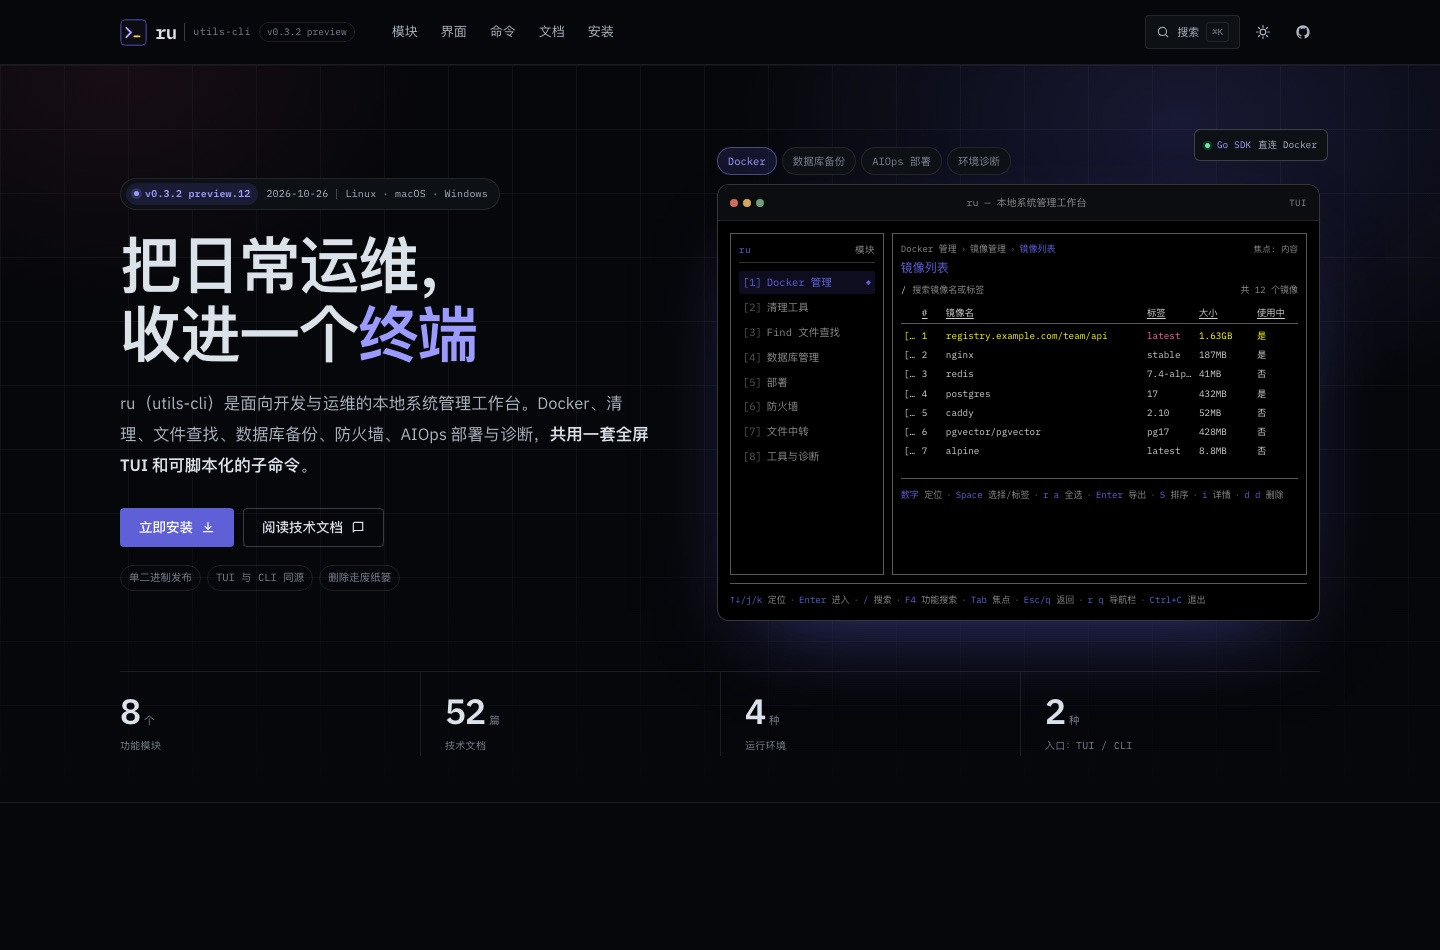
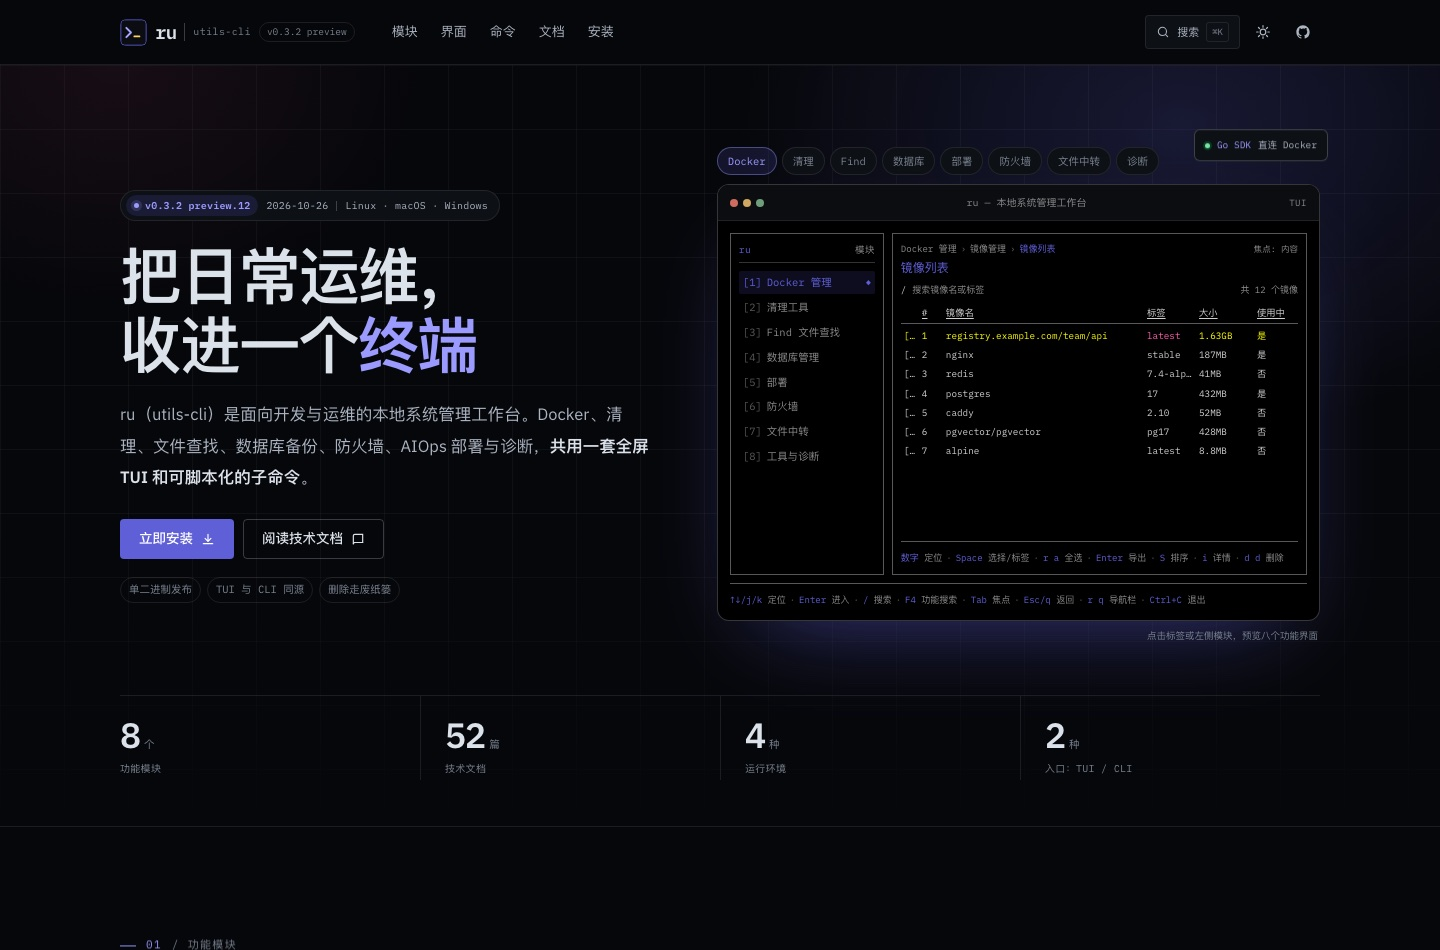
docs: expand TUI preview demos to all modules

diff --git a/index.html b/index.html
@@ -117,9 +117,13 @@
           <div class="hero-visual">
             <div class="tui-switch" role="tablist" aria-label="TUI 预览视图">
               <button type="button" role="tab" data-tui-view="docker" aria-selected="true">Docker</button>
-              <button type="button" role="tab" data-tui-view="backup" aria-selected="false">数据库备份</button>
-              <button type="button" role="tab" data-tui-view="deploy" aria-selected="false">AIOps 部署</button>
-              <button type="button" role="tab" data-tui-view="doctor" aria-selected="false">环境诊断</button>
+              <button type="button" role="tab" data-tui-view="clean" aria-selected="false">清理</button>
+              <button type="button" role="tab" data-tui-view="find" aria-selected="false">Find</button>
+              <button type="button" role="tab" data-tui-view="backup" aria-selected="false">数据库</button>
+              <button type="button" role="tab" data-tui-view="deploy" aria-selected="false">部署</button>
+              <button type="button" role="tab" data-tui-view="firewall" aria-selected="false">防火墙</button>
+              <button type="button" role="tab" data-tui-view="export" aria-selected="false">文件中转</button>
+              <button type="button" role="tab" data-tui-view="doctor" aria-selected="false">诊断</button>
             </div>
             <div class="term-window" aria-label="ru 全屏 TUI 预览">
               <div class="term-bar">
@@ -161,6 +165,43 @@
                       <div class="tui-empty-space"></div>
                       <div class="tui-help"><b>数字</b> 定位<span class="sep">·</span><b>Space</b> 选择/标签<span class="sep">·</span><b>r a</b> 全选<span class="sep">·</span><b>Enter</b> 导出<span class="sep">·</span><b>S</b> 排序<span class="sep">·</span><b>i</b> 详情<span class="sep">·</span><b>d d</b> 删除</div>
                     </div>
+                    <!-- 清理工具 -->
+                    <div data-tui-panel="clean" hidden>
+                      <div class="tui-crumb"><span>清理工具</span><span class="sep">›</span><span>扫描结果</span><span class="sep">›</span><span class="current">待清理项</span><span class="tui-focus">焦点: 内容</span></div>
+                      <div class="tui-title">清理扫描</div>
+                      <div class="tui-subrow"><b>/</b> 搜索路径 <span style="margin-left:auto">预计释放 3.6GB</span></div>
+                      <div class="tui-table tui-cols-clean">
+                        <div class="tui-tr tui-tr--head"><span></span><span>类型</span><span>路径</span><span>大小</span><span>状态</span></div>
+                        <div class="tui-tr is-selected"><span>[x]</span><span class="dim">Maven</span><span>~/.m2/repository</span><span>1.8GB</span><span class="ok">可清理</span></div>
+                        <div class="tui-tr"><span>[x]</span><span class="dim">缓存</span><span>~/Library/Caches/Homebrew</span><span>742MB</span><span class="ok">可清理</span></div>
+                        <div class="tui-tr"><span>[ ]</span><span class="dim">临时文件</span><span>/tmp/ru-*</span><span>126MB</span><span class="ok">可清理</span></div>
+                        <div class="tui-tr"><span>[ ]</span><span class="dim">压缩包</span><span>~/Downloads/*.zip</span><span>934MB</span><span class="warn">需确认</span></div>
+                        <div class="tui-tr"><span>[ ]</span><span class="dim">日志</span><span>~/.local/share/ru/logs</span><span>64MB</span><span class="dim">保留</span></div>
+                      </div>
+                      <div class="tui-empty-space"></div>
+                      <div class="tui-help"><b>Space</b> 选择<span class="sep">·</span><b>r a</b> 全选<span class="sep">·</span><b>Enter</b> 清理<span class="sep">·</span><b>i</b> 明细<span class="sep">·</span><b>l</b> 日志<span class="sep">·</span><b>Esc</b> 返回<span class="sep">·</span>删除进入废纸篓</div>
+                    </div>
+                    <!-- Find 文件查找 -->
+                    <div data-tui-panel="find" hidden>
+                      <div class="tui-crumb"><span>Find 文件查找</span><span class="sep">›</span><span>条件构建</span><span class="sep">›</span><span class="current">搜索结果</span><span class="tui-focus">焦点: 条件</span></div>
+                      <div class="tui-title">查找条件</div>
+                      <div class="tui-subrow"><b>/</b> 搜索字段 <span style="margin-left:auto">预计匹配 12 个文件</span></div>
+                      <div class="tui-table tui-cols-find">
+                        <div class="tui-tr tui-tr--head"><span>字段</span><span>操作</span><span>值</span></div>
+                        <div class="tui-tr is-selected"><span>名称</span><span>like</span><span>*.log</span></div>
+                        <div class="tui-tr"><span>大小</span><span>&gt;</span><span>10MB</span></div>
+                        <div class="tui-tr"><span>修改时间</span><span>&lt;</span><span>30 天</span></div>
+                        <div class="tui-tr"><span>路径</span><span>=</span><span>~/projects</span></div>
+                      </div>
+                      <div class="tui-subrow" style="margin-top:7px"><b>结果</b> 12 个文件 · 总计 2.1GB</div>
+                      <div class="tui-table tui-cols-files">
+                        <div class="tui-tr tui-tr--head"><span>文件</span><span>大小</span><span>修改时间</span></div>
+                        <div class="tui-tr"><span>~/projects/api/logs/app.log</span><span>18MB</span><span>2 天前</span></div>
+                        <div class="tui-tr"><span>~/projects/web/logs/access.log</span><span>64MB</span><span>3 天前</span></div>
+                      </div>
+                      <div class="tui-empty-space"></div>
+                      <div class="tui-help"><b>a</b> 新增条件<span class="sep">·</span><b>Enter</b> 编辑<span class="sep">·</span><b>r x</b> 完成<span class="sep">·</span><b>d d</b> 删除<span class="sep">·</span><b>m</b> 移动<span class="sep">·</span><b>Esc</b> 返回</div>
+                    </div>
                     <!-- 数据库备份 -->
                     <div data-tui-panel="backup" hidden>
                       <div class="tui-crumb"><span>数据库管理</span><span class="sep">›</span><span>备份计划</span><span class="sep">›</span><span class="current">计划详情</span><span class="tui-focus">焦点: 内容</span></div>
@@ -190,6 +231,38 @@
                       <div class="tui-empty-space"></div>
                       <div class="tui-help"><b>Enter</b> 查看详情<span class="sep">·</span><b>i</b> 巡检<span class="sep">·</span><b>r</b> 刷新<span class="sep">·</span><b>d</b> 部署<span class="sep">·</span><b>Esc/q</b> 返回</div>
                     </div>
+                    <!-- 防火墙 -->
+                    <div data-tui-panel="firewall" hidden>
+                      <div class="tui-crumb"><span>防火墙</span><span class="sep">›</span><span>入站规则</span><span class="sep">›</span><span class="current">规则列表</span><span class="tui-focus">焦点: 内容</span></div>
+                      <div class="tui-title">TCP 入站规则</div>
+                      <div class="tui-subrow">后端 <b>ufw</b> <span style="margin-left:auto">Linux 示例</span></div>
+                      <div class="tui-table tui-cols-firewall">
+                        <div class="tui-tr tui-tr--head"><span>端口</span><span>协议</span><span>来源</span><span>状态</span></div>
+                        <div class="tui-tr is-selected"><span>22</span><span>tcp</span><span>任意</span><span class="ok">放行</span></div>
+                        <div class="tui-tr"><span>443</span><span>tcp</span><span>任意</span><span class="ok">放行</span></div>
+                        <div class="tui-tr"><span>5432</span><span>tcp</span><span>10.0.0.0/24</span><span class="ok">放行</span></div>
+                        <div class="tui-tr"><span>8080</span><span>tcp</span><span>任意</span><span class="dim">未放行</span></div>
+                      </div>
+                      <div class="tui-empty-space"></div>
+                      <div class="tui-help"><b>a</b> 放行端口<span class="sep">·</span><b>d d</b> 撤销规则<span class="sep">·</span><b>Enter</b> 详情<span class="sep">·</span><b>r</b> 刷新<span class="sep">·</span><b>Esc</b> 返回</div>
+                    </div>
+                    <!-- 文件中转 -->
+                    <div data-tui-panel="export" hidden>
+                      <div class="tui-crumb"><span>文件中转</span><span class="sep">›</span><span>预检</span><span class="sep">›</span><span class="current">导出</span><span class="tui-focus">焦点: 表单</span></div>
+                      <div class="tui-title">文件中转</div>
+                      <div class="tui-subrow">SUDO_USER <b>deploy</b> <span style="margin-left:auto">仅原生 Linux · root 会话</span></div>
+                      <div class="tui-table tui-cols-export">
+                        <div class="tui-tr tui-tr--head"><span>项目</span><span>值</span></div>
+                        <div class="tui-tr is-selected"><span>源路径</span><span>/var/log/nginx/access.log</span></div>
+                        <div class="tui-tr"><span>目标目录</span><span>/home/deploy/xftp</span></div>
+                        <div class="tui-tr"><span>目标文件</span><span>nginx-access.log</span></div>
+                        <div class="tui-tr"><span>方式</span><span>复制</span></div>
+                        <div class="tui-tr"><span>权限</span><span>root → deploy</span></div>
+                      </div>
+                      <div class="tui-note-line">移动模式会在复制并复核后，把源路径移入废纸篓。</div>
+                      <div class="tui-empty-space"></div>
+                      <div class="tui-help"><b>Enter</b> 开始导出<span class="sep">·</span><b>Space</b> 切换复制/移动<span class="sep">·</span><b>r</b> 重新预检<span class="sep">·</span><b>Esc</b> 返回</div>
+                    </div>
                     <!-- 诊断 -->
                     <div data-tui-panel="doctor" hidden>
                       <div class="tui-crumb"><span>工具</span><span class="sep">›</span><span>环境诊断</span><span class="sep">›</span><span class="current">检查结果</span><span class="tui-focus">焦点: 内容</span></div>
@@ -212,6 +285,7 @@
                 <div class="tui-help"><b>↑↓/j/k</b> 定位<span class="sep">·</span><b>Enter</b> 进入<span class="sep">·</span><b>/</b> 搜索<span class="sep">·</span><b>F4</b> 功能搜索<span class="sep">·</span><b>Tab</b> 焦点<span class="sep">·</span><b>Esc/q</b> 返回<span class="sep">·</span><b>r q</b> 导航栏<span class="sep">·</span><b>Ctrl+C</b> 退出</div>
               </div>
             </div>
+            <p class="tui-caption">点击标签或左侧模块，预览八个功能界面</p>
             <span class="float-chip float-chip--a"><span class="pulse"></span><b>Go SDK</b> 直连 Docker</span>
           </div>
         </div>

diff --git a/assets/css/site.css b/assets/css/site.css
@@ -973,6 +973,12 @@ html[data-theme="light"] .icon-btn .icon-moon {
   flex-direction: column;
   min-height: 0;
 }
+.tui-main > [data-tui-panel] {
+  display: flex;
+  flex-direction: column;
+  flex: 1;
+  min-height: 280px;
+}
 .tui-crumb {
   display: flex;
   flex-wrap: wrap;
@@ -1073,6 +1079,27 @@ html[data-theme="light"] .icon-btn .icon-moon {
 .tui-cols-doctor .tui-tr {
   grid-template-columns: minmax(0, 0.8fr) 52px minmax(0, 1.2fr);
 }
+.tui-cols-clean .tui-tr {
+  grid-template-columns: 12px 52px minmax(0, 1.35fr) 44px 52px;
+}
+.tui-cols-find .tui-tr {
+  grid-template-columns: 66px 48px minmax(0, 1fr);
+}
+.tui-cols-files .tui-tr {
+  grid-template-columns: minmax(0, 1fr) 48px 46px;
+}
+.tui-cols-firewall .tui-tr {
+  grid-template-columns: 40px 34px minmax(0, 1fr) 48px;
+}
+.tui-cols-export .tui-tr {
+  grid-template-columns: 70px minmax(0, 1fr);
+}
+.tui-note-line {
+  margin-top: 7px;
+  color: var(--term-dim);
+  font-size: 8.6px;
+  line-height: 1.6;
+}
 .tui-empty-space {
   flex: 1;
   min-height: 18px;
@@ -1091,6 +1118,13 @@ html[data-theme="light"] .icon-btn .icon-moon {
 .tui-help .sep {
   margin: 0 4px;
   color: var(--term-line);
+}
+.tui-caption {
+  margin: 7px 2px 0;
+  font-family: var(--font-mono);
+  font-size: 9.5px;
+  color: var(--muted);
+  text-align: right;
 }
 .float-chip {
   position: absolute;
@@ -3081,6 +3115,24 @@ html[data-theme="light"] .icon-btn .icon-moon {
   }
   .tui-cols-doctor .tui-tr {
     grid-template-columns: minmax(0, 0.8fr) 42px minmax(0, 1.1fr) !important;
+  }
+  .tui-cols-clean .tui-tr {
+    grid-template-columns: 12px 42px minmax(0, 1.2fr) 38px 44px !important;
+  }
+  .tui-cols-find .tui-tr {
+    grid-template-columns: 52px 38px minmax(0, 1fr) !important;
+  }
+  .tui-cols-files .tui-tr {
+    grid-template-columns: minmax(0, 1fr) 38px 36px !important;
+  }
+  .tui-cols-firewall .tui-tr {
+    grid-template-columns: 32px 28px minmax(0, 1fr) 40px !important;
+  }
+  .tui-cols-export .tui-tr {
+    grid-template-columns: 54px minmax(0, 1fr) !important;
+  }
+  .tui-caption {
+    text-align: left;
   }
   .footer-top {
     grid-template-columns: minmax(0, 1fr);

diff --git a/assets/js/site.js b/assets/js/site.js
@@ -122,7 +122,6 @@
     });
     navItems.forEach(function (item) {
       var view = item.getAttribute('data-nav-for');
-      if (['docker', 'backup', 'deploy', 'doctor'].indexOf(view) === -1) return;
       item.setAttribute('role', 'button');
       item.setAttribute('tabindex', '0');
       item.addEventListener('click', function () {
